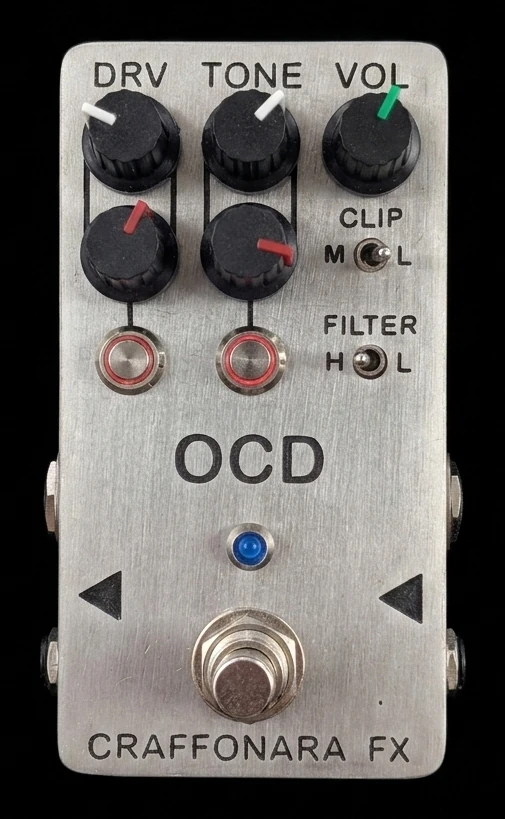
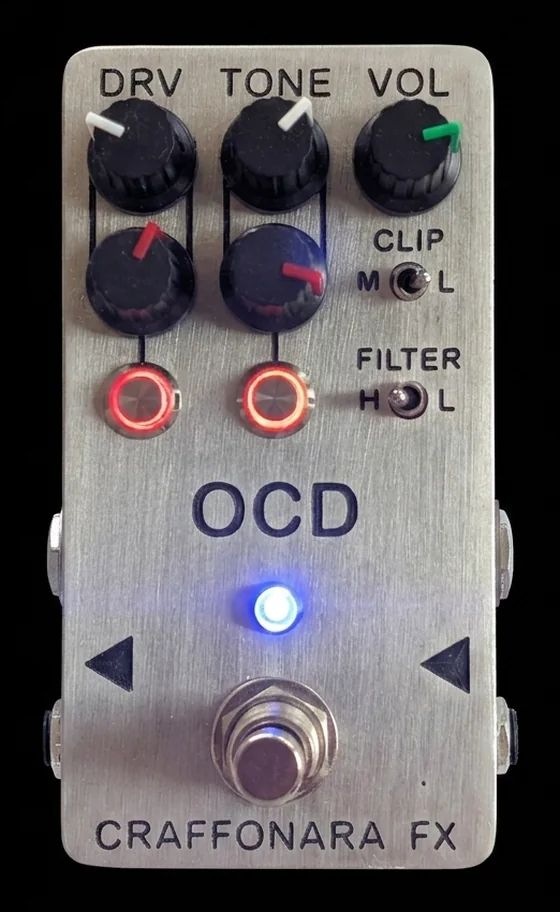
update

diff --git a/products.js b/products.js
@@ -130,5 +130,32 @@ const PRODUCTS = [
         "gallery": [
             "img/ep-hero.webp"
         ]
+    },
+    {
+        "id": "midi-filter",
+        "name": "MIDI Filter",
+        "category": "midi",
+        "price": "on request",
+        "status": "built-to-order",
+        "color": "#A7ACB4",
+        "knobs": 0,
+        "switches": 0,
+        "blurb": "Not a pedal, but a lifesaver on a MIDI-heavy board. An ultra-compact utility (just 5 \u00d7 5 \u00d7 3 cm) that filters unwanted MIDI messages before they reach your gear. Eight DIP switches let you block SysEx, System Common, MIDI Clock, Program Change, Start/Stop/Continue and Active Sensing individually \u2014 with separate unfiltered, filtered and switchable TRS outputs.",
+        "specs": [
+            "Ultra-compact aluminium enclosure \u2014 just 5 \u00d7 5 \u00d7 3 cm, fits anywhere on a board",
+            "8 DIP switches \u2014 OFF = message is passed through, ON = message is filtered",
+            "Filterable: SysEx (1), System Common (2), MIDI Clock (3), Program Change (5), Start/Stop/Continue (6), Active Sensing (7)",
+            "DIP 4 is reserved \u2014 must stay OFF",
+            "Four MIDI TRS jacks: IN, THRU (always unfiltered), FLTR (always filtered), T/F (switchable)",
+            "DIP 8 sets the T/F output: OFF = THRU (unfiltered), ON = filtered MIDI",
+            "9\u201318 V DC, center-negative"
+        ],
+        "image": "img/midifilter-hero.webp",
+        "gallery": [
+            "img/midifilter-hero.webp",
+            "img/midifilter-top.webp",
+            "img/midifilter-angle2.webp",
+            "img/midifilter-side.webp"
+        ]
     }
 ];